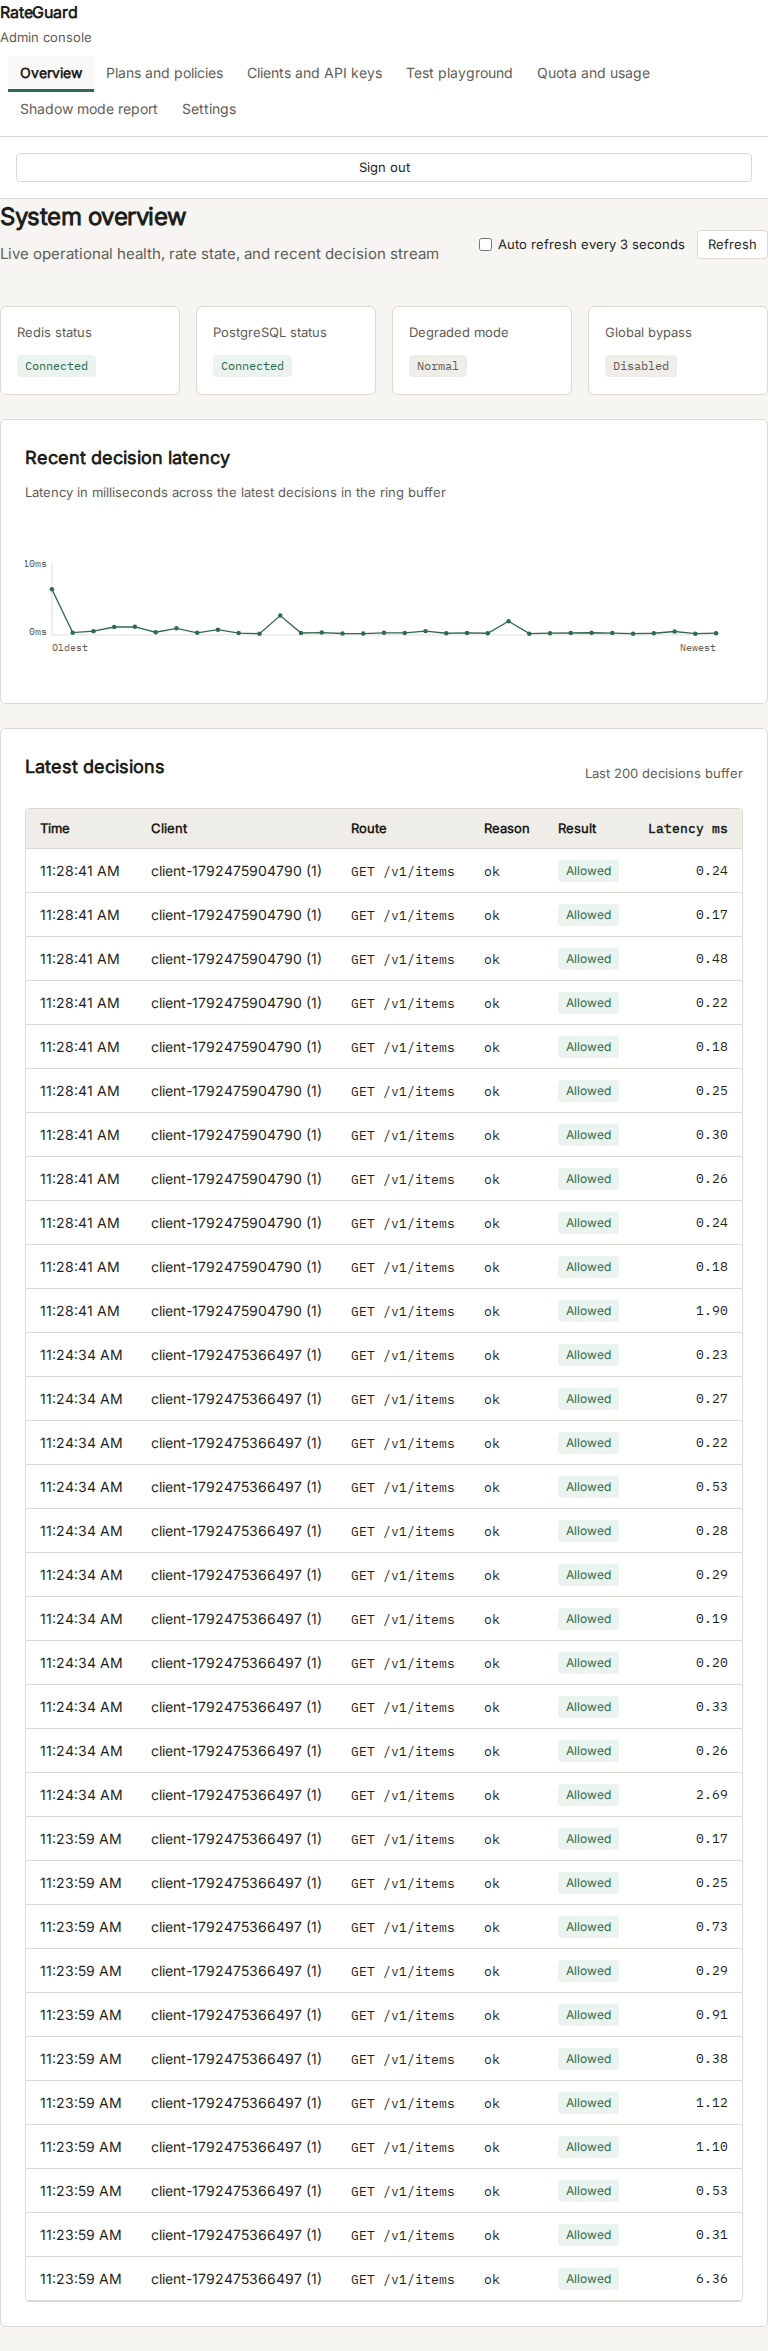
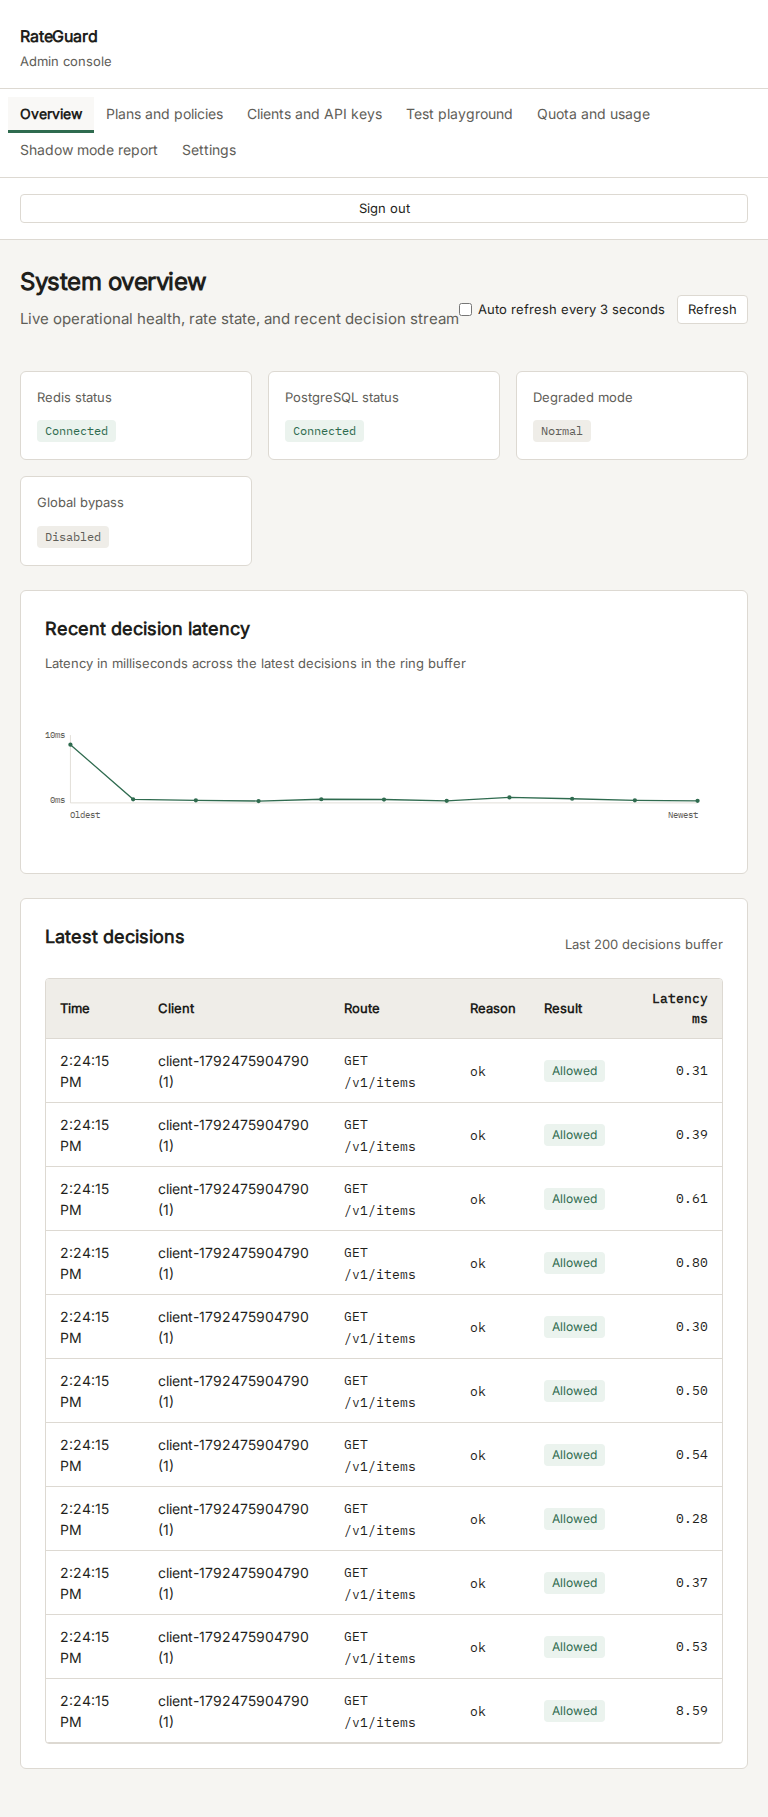
Fix layout to make sidebar full height and content fill screen

diff --git a/console/src/styles.css b/console/src/styles.css
@@ -61,19 +61,31 @@ button:focus-visible, input:focus-visible, select:focus-visible, a:focus-visible
 #app {
   display: flex;
   min-height: 100vh;
+  width: 100%;
+}
+
+.app-layout {
+  display: flex;
+  width: 100%;
+  min-height: 100vh;
+  background-color: var(--bg-page);
 }
 
 .sidebar {
-  width: 220px;
+  width: 240px;
   background-color: var(--bg-surface);
   border-right: 1px solid var(--border-color);
   display: flex;
   flex-direction: column;
   flex-shrink: 0;
+  position: sticky;
+  top: 0;
+  height: 100vh;
+  z-index: 10;
 }
 
-.sidebar-header {
-  padding: 24px 16px 16px 16px;
+.sidebar-header, .sidebar-brand {
+  padding: 24px 20px 16px 20px;
   border-bottom: 1px solid var(--border-color);
 }
 
@@ -93,11 +105,12 @@ button:focus-visible, input:focus-visible, select:focus-visible, a:focus-visible
 .sidebar-nav {
   padding: 16px 0;
   flex: 1;
+  overflow-y: auto;
 }
 
 .nav-item {
   display: block;
-  padding: 8px 16px;
+  padding: 10px 20px;
   color: var(--text-secondary);
   text-decoration: none;
   border-left: 3px solid transparent;
@@ -118,35 +131,43 @@ button:focus-visible, input:focus-visible, select:focus-visible, a:focus-visible
 }
 
 .sidebar-footer {
-  padding: 16px;
+  padding: 16px 20px;
   border-top: 1px solid var(--border-color);
   font-size: 13px;
   color: var(--text-secondary);
 }
 
-.main-content {
+.main-content, .main-container {
   flex: 1;
-  padding: 32px;
-  max-width: 1120px;
-  margin: 0 auto;
+  padding: 32px 48px;
   width: 100%;
+  min-width: 0;
+  min-height: 100vh;
+  box-sizing: border-box;
+}
+
+#view-content {
+  width: 100%;
+  box-sizing: border-box;
 }
 
 @media (max-width: 1024px) {
-  .main-content {
-    padding: 24px 16px;
+  .main-content, .main-container {
+    padding: 24px 20px;
   }
   .sidebar {
-    width: 190px;
+    width: 200px;
   }
 }
 
 @media (max-width: 768px) {
-  #app {
+  .app-layout {
     flex-direction: column;
   }
   .sidebar {
     width: 100%;
+    height: auto;
+    position: static;
     border-right: none;
     border-bottom: 1px solid var(--border-color);
   }

diff --git a/scripts/start-test-server.ts b/scripts/start-test-server.ts
@@ -1,3 +1,5 @@
+import net from 'node:net';
+import EmbeddedPostgres from 'embedded-postgres';
 import { resetEnvCache } from '../src/config/env.js';
 
 process.env.PORT = '3100';
@@ -10,6 +12,17 @@ process.env.NODE_ENV = 'development';
 
 resetEnvCache();
 
+function isPortOpen(port: number): Promise<boolean> {
+  return new Promise((resolve) => {
+    const s = net.connect(port, '127.0.0.1', () => {
+      s.destroy();
+      resolve(true);
+    }).on('error', () => {
+      resolve(false);
+    });
+  });
+}
+
 import { getRedis } from '../src/config/redis.js';
 import { runMigrations } from '../src/config/database.js';
 import { loadSnapshot, startConfigPoller } from '../src/config/snapshot.js';
@@ -17,6 +30,25 @@ import { startQuotaFlusher } from '../src/quota/flusher.js';
 import { buildApp } from '../src/server.js';
 
 async function main() {
+  const pgUp = await isPortOpen(5432);
+  let pgInstance: EmbeddedPostgres | null = null;
+  if (!pgUp) {
+    pgInstance = new EmbeddedPostgres({
+      database_dir: './data/pg',
+      user: 'rateguard',
+      password: 'rateguard',
+      port: 5432,
+      persistent: true,
+    });
+    try {
+      await pgInstance.initialise();
+    } catch {}
+    await pgInstance.start();
+    try {
+      await pgInstance.createDatabase('rateguard');
+    } catch {}
+  }
+
   const redis = getRedis();
   try {
     await redis.connect();
@@ -30,6 +62,16 @@ async function main() {
   const app = await buildApp();
   await app.listen({ port: 3100, host: '127.0.0.1' });
   console.log('Test server ready at http://127.0.0.1:3100');
+
+  const shutdown = async () => {
+    await app.close();
+    if (pgInstance) {
+      await pgInstance.stop();
+    }
+    process.exit(0);
+  };
+  process.on('SIGINT', shutdown);
+  process.on('SIGTERM', shutdown);
 }
 
 main().catch((err) => {

diff --git a/console/src/main.ts b/console/src/main.ts
@@ -17,7 +17,7 @@ function setupAppShell(): void {
     <div class="app-layout">
       <!-- Left Sidebar Navigation -->
       <aside class="sidebar" id="app-sidebar" style="display: none;">
-        <div class="sidebar-brand">
+        <div class="sidebar-header sidebar-brand">
           <div class="brand-title">RateGuard</div>
           <div class="brand-subtitle">Admin console</div>
         </div>
@@ -38,7 +38,7 @@ function setupAppShell(): void {
       </aside>
 
       <!-- Main Content Area -->
-      <main class="main-container">
+      <main class="main-content main-container">
         <div id="view-content"></div>
       </main>
     </div>
